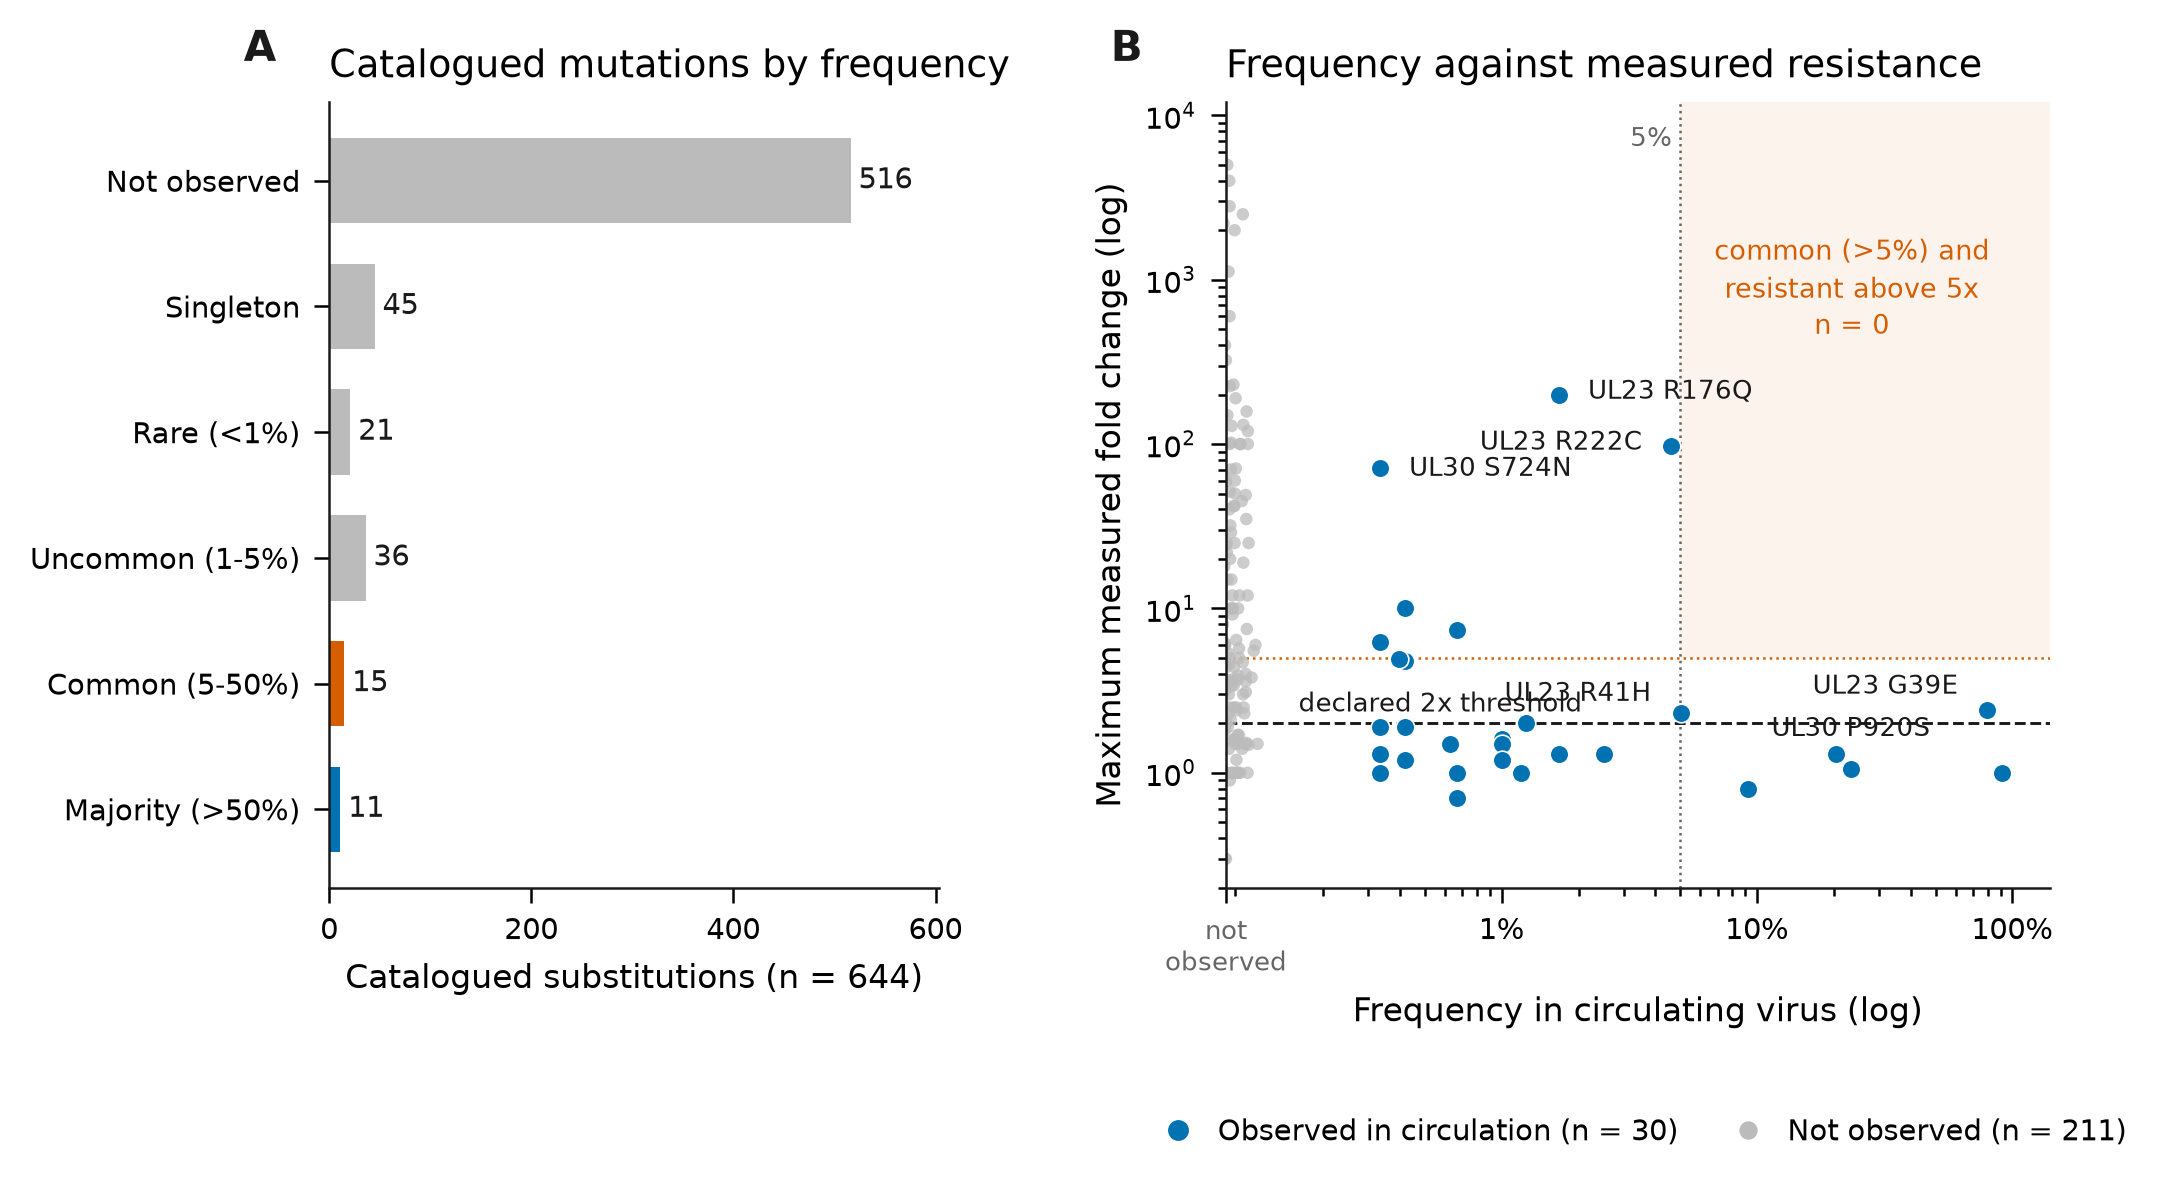
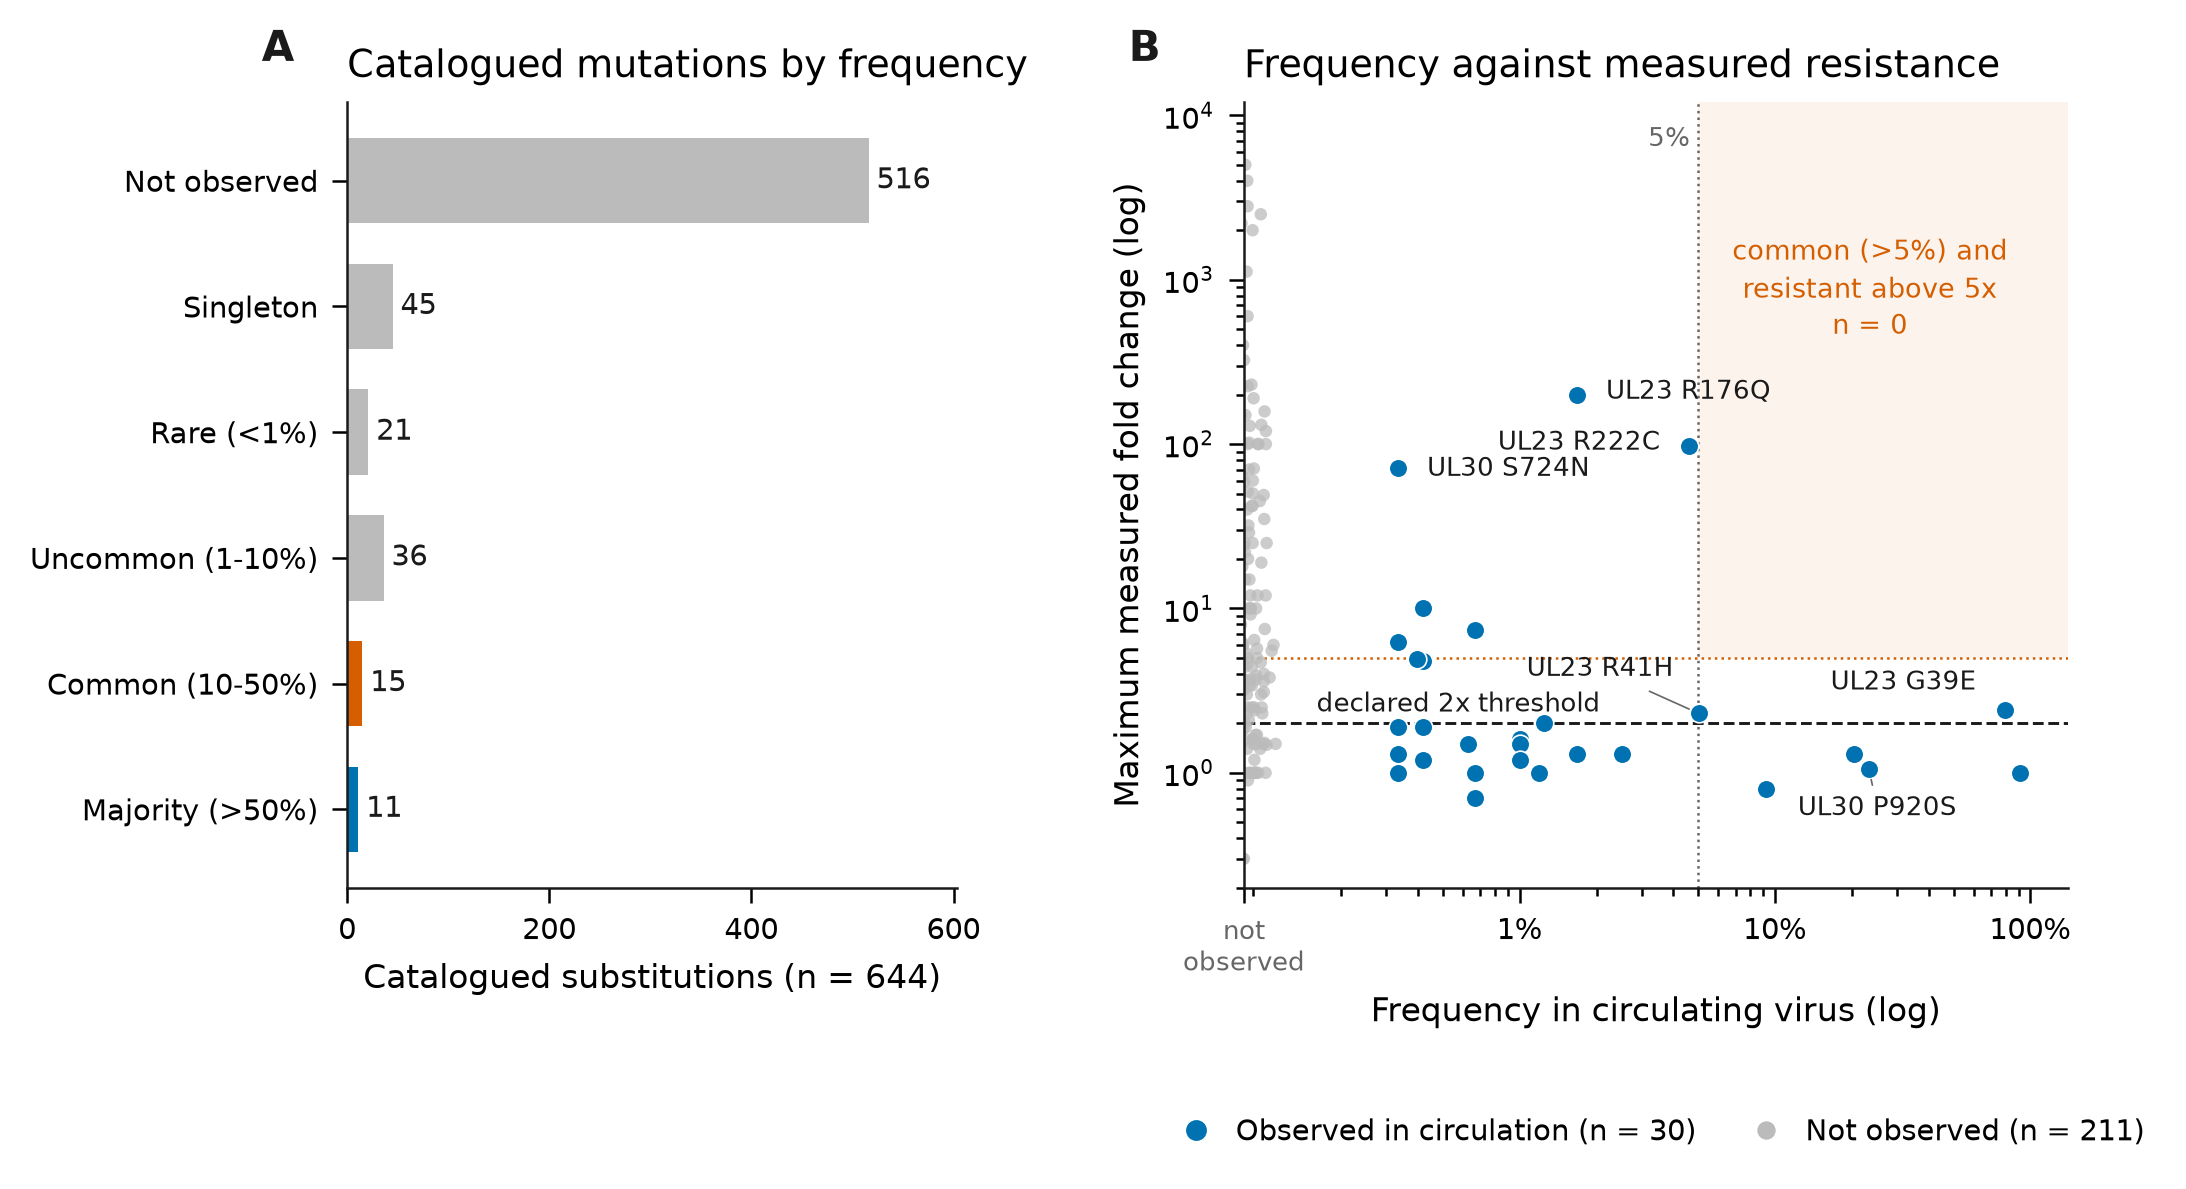
Correct the frequency band labels: the bands are cut at 1% and 10%, not 5%
The reclassification table assigns bands at FREQ_NOTABLE = 0.01 and
FREQ_COMMON = 0.10, but every document printing those bands labelled them
"Uncommon (1-5%)" and "Common (5-50%)". The counts were right -- 36 and 15 are
the 1-10% and 10-50% counts -- so every count check passed and nothing caught
the ranges. The 1-5% band actually holds 26 and 5-10% holds 10.

Wrong in four places: the manuscript's band table and its abstract ("a further
15 exceed 5%", true but understated -- they exceed 10%), PHASE2_REPORT.md, and
Figure 1A's own axis labels, which are generated from the same strings.

Three flag descriptions were wrong in the same direction. All three
circulating_resistance_allele entries sit in the uncommon band, not the common
one, so describing the flag as "Common and resistant" contradicted the table
printed above it; reclassify_as_polymorphism and unphenotyped_but_common were
described as "common" when the rule is above 1%.

Section 3.2 now states its own 5% cut explicitly, says it is half the band
boundary and therefore the wider claim, and names UL23 R222C -- 98-fold at
4.6%, just under the cut -- as the nearest approach to a counterexample,
pointing at 3.1 for why it fails on frequency too. The absence claim was
sound; it was resting on a cut-off the reader could not see.

p4_05_verify.py gains four checks: the two band boundaries read from the
thresholds the table was built with, and the two band counts recomputed from
[…]

diff --git a/scripts/p4_08_figures.py b/scripts/p4_08_figures.py
@@ -131,8 +131,8 @@ def figure1():
 
     # ---- panel A: the 644 by frequency band
     order = [("not_observed", "Not observed"), ("singleton", "Singleton"),
-             ("rare", "Rare (<1%)"), ("uncommon_polymorphism", "Uncommon (1-5%)"),
-             ("common_polymorphism", "Common (5-50%)"),
+             ("rare", "Rare (<1%)"), ("uncommon_polymorphism", "Uncommon (1-10%)"),
+             ("common_polymorphism", "Common (10-50%)"),
              ("majority_allele", "Majority (>50%)")]
     counts = {}
     for r in rc:
@@ -202,17 +202,27 @@ def figure1():
     # Label the variants the text discusses, and only those. R222C is labelled
     # leftwards on purpose: it sits at 4.6%, just outside the shaded region, and
     # a label running rightwards would read as though it were inside.
+    # R41H and P920S both sit within a few points of the 2x line, so they are
+    # pushed clear of it in opposite directions rather than labelled in place:
+    # R41H above, where the gap to the 5x line is widest, and P920S below.
     place = {"R176Q": ((7, -1), "left"), "R222C": ((-7, -1), "right"),
-             "S724N": ((7, -2), "left"), "R41H": ((-7, 3), "right"),
-             "G39E": ((-7, 4), "right"), "P920S": ((0, 8), "center")}
+             "S724N": ((7, -2), "left"), "R41H": ((-6, 9), "right"),
+             "G39E": ((-7, 5), "right"), "P920S": ((2, -11), "center")}
     for r in obs:
         spec = place.get(r["aa_change"])
         if spec:
             (dx, dy), ha = spec
+            # A label pushed clear of a crowded line is far enough from its
+            # point to be read as belonging to a neighbour, so those two get
+            # a hairline leader. The rest sit against their point and do not.
+            arrow = (dict(arrowstyle="-", lw=0.4, color=C["floor"],
+                          shrinkA=0.5, shrinkB=2.5)
+                     if abs(dy) >= 9 else None)
             axB.annotate("%s %s" % (r["gene"], r["aa_change"]),
                          (num(r["frequency"]), num(r["max_fold_change"])),
                          textcoords="offset points", xytext=(dx, dy),
-                         fontsize=6.2, color=C["ink"], ha=ha, zorder=5)
+                         fontsize=6.2, color=C["ink"], ha=ha, zorder=5,
+                         arrowprops=arrow)
 
     axB.set_xlabel("Frequency in circulating virus (log)")
     axB.set_ylabel("Maximum measured fold change (log)")

diff --git a/scripts/p4_05_verify.py b/scripts/p4_05_verify.py
@@ -67,6 +67,27 @@ def main():
     check("uncommon polymorphisms", bands.get("uncommon_polymorphism"), 36)
     check("singletons", bands.get("singleton"), 45)
     check("rare", bands.get("rare"), 21)
+
+    # The band COUNTS were right while the manuscript printed the wrong
+    # RANGES against them, which no count check could catch. The boundaries
+    # the counts were produced at are checked here, and the counts are
+    # recomputed from the frequencies against those boundaries so that the
+    # labels in the band table cannot drift away from the data again.
+    th = load(REP / "phase2" / "reclassification_summary.json")["thresholds"]
+    check("band boundary, notable", th["freq_notable"], 0.01, 1e-9)
+    check("band boundary, common", th["freq_common"], 0.10, 1e-9)
+    freqs = [float(r["frequency"]) for r in rc if r["observed"] == "1"]
+    check("recount, uncommon band (1-10%)",
+          sum(1 for f in freqs if 0.01 < f <= 0.10), 36)
+    check("recount, common band (10-50%)",
+          sum(1 for f in freqs if 0.10 < f <= 0.50), 15)
+    ms = (ROOT / "reports" / "phase4" / "MANUSCRIPT.md").read_text(
+        encoding="utf-8")
+    for bad in ("Uncommon (1–5%)", "Common (5–50%)",
+                "a further 15 exceed 5%"):
+        if bad in ms:
+            failures.append(f"manuscript prints a 5% band boundary, but the "
+                            f"bands are cut at 1% and 10%: {bad!r}")
     check("reference_artifact", flags.get("reference_artifact"), 10)
     check("reclassify_as_polymorphism", flags.get("reclassify_as_polymorphism"), 7)
     check("unphenotyped_but_common", flags.get("unphenotyped_but_common"), 41)

diff --git a/reports/phase4/MANUSCRIPT.md b/reports/phase4/MANUSCRIPT.md
@@ -26,7 +26,7 @@ kinase (UL23), DNA polymerase (UL30), helicase (UL5) and primase (UL52) from
 
 Of 644 catalogued substitutions, **128 occur in circulating virus and 516 do
 not**. Eleven are the *majority* allele, meaning the reference sequence carries
-the minority residue; a further 15 exceed 5%. Seven are recommended for
+the minority residue; a further 15 exceed 10%. Seven are recommended for
 reclassification as polymorphisms. Forty-one are common in circulation but have
 never been phenotyped, and are the clearest target for future assay work.
 Three initially appeared to be circulating resistance alleles; none survives
@@ -192,8 +192,8 @@ Of 644 catalogued substitutions, 128 occur in circulating virus (Figure 1A).
 | Not observed | 516 | No population evidence either way |
 | Singleton | 45 | One carrier |
 | Rare (<1%) | 21 | |
-| Uncommon (1–5%) | 36 | |
-| **Common (5–50%)** | **15** | |
+| Uncommon (1–10%) | 36 | |
+| **Common (10–50%)** | **15** | |
 | **Majority (>50%)** | **11** | The reference carries the minority residue |
 
 Interpretive flags:
@@ -201,17 +201,17 @@ Interpretive flags:
 | Flag | n | What it means |
 | --- | --- | --- |
 | `reference_artifact` | 10 | Majority allele, no measured resistance |
-| `reclassify_as_polymorphism` | 7 | Catalogued as resistance-associated, common, fold change below 2× |
-| `unphenotyped_but_common` | 41 | Common in circulation, never phenotyped |
+| `reclassify_as_polymorphism` | 7 | Catalogued as resistance-associated, above 1%, fold change at or below 2× |
+| `unphenotyped_but_common` | 41 | Above 1% in circulation, never phenotyped |
 | `consistent_rare` | 60 | Rare, as a resistance determinant should be |
 | `consistent_with_resistance` | 6 | Rare and phenotypically resistant |
-| `circulating_resistance_allele` | 3 | Common **and** resistant — all three fail on inspection |
+| `circulating_resistance_allele` | 3 | Above 1%, fold change above 2× — all three fail on inspection |
 | `majority_allele_with_measured_resistance` | 1 | |
 
 **The seven `reclassify_as_polymorphism` entries are the paper's concrete
 deliverable**, and the 41 `unphenotyped_but_common` entries are its clearest
-call to action: these are common enough that a laboratory encountering them will
-have to interpret them, and no phenotype exists.
+call to action: each is carried by more than 1% of circulating virus, so a
+laboratory will meet them and has no phenotype to interpret them with.
 
 ### 3.1 The three apparent circulating resistance alleles
 
@@ -246,13 +246,20 @@ observed in circulating virus and 211 are not, and the two groups differ in
 measured resistance: median fold change 1.5× for the observed and 5.0× for the
 unobserved.
 
-The informative part of the plot is empty. Above 5% frequency the strongest
-phenotype in the catalogue is **2.4×**: two substitutions clear the declared
-2-fold threshold at that frequency, both marginally (UL23 R41H at 2.3×, UL30
-G39E at 2.4×), and **none reaches 5×**. There is no common substitution in
-circulating HSV with a strong measured resistance phenotype. That absence is the
-reassuring reading of Aim 1, and it is only visible once the denominator
-exists.
+The informative part of the plot is empty. Taking 5% as the cut — half the
+band boundary used in the table above, so that the claim is made over a wider
+set of substitutions rather than a narrower one — the strongest phenotype
+above it is **2.4×**. Two substitutions clear the declared 2-fold threshold at
+that frequency, both marginally (UL23 R41H at 2.3×, UL30 G39E at 2.4×), and
+**none reaches 5×**.
+
+The nearest approach to a counterexample is UL23 R222C, at 98-fold and 4.6%,
+just below the cut — and §3.1 is the reason it does not qualify on frequency
+either: 8 of its 11 carriers come from one submission, and dropping that
+submission takes it to 1.4%. Subject to that, there is no substitution in
+circulating HSV that is both reasonably common and strongly resistant by
+measurement. The absence is the reassuring reading of Aim 1, and it is only
+visible once the denominator exists.
 
 ## 4. Aims 2 and 3
 
@@ -274,11 +281,13 @@ in culture while polymerase is not — and it supplies a population-genetic
 reason why TK accumulates substitutions that then appear in resistance
 catalogues. The contrast is also insensitive to the two choices of sequence set
 that move individual allele frequencies most. Collapsing serial isolates to one
-per patient, which moves R222C's frequency by 40%, moves this contrast by 0.004;
-restricting the set to the 451 isolates whose GenBank records carry an explicit
-gene qualifier, a quarter less sequence, moves it by 0.0025. Both lie well
-inside the interval. Gene-wide rates are insensitive to sampling in a way
-single-variant frequencies are not.
+per patient, which moves R222C's frequency by 40%, moves this contrast by
+0.004. Restricting extraction to the 451 isolates whose GenBank records carry
+an explicit `gene` qualifier, discarding a quarter of the sequence and the
+HSV-2 records disproportionately, moves it by 0.0025. Both lie well inside the
+interval of ±0.03. Gene-wide rates are insensitive to sampling in a way
+single-variant frequencies are not, which is the general reason to prefer them
+for a selection contrast.
 
 HSV-2 is withheld: UL23 has only 32 synonymous sites and a pN/pS point estimate
 of 2.46 with an interval spanning 1.74–3.67, which is an artefact of the

diff --git a/reports/phase2/PHASE2_REPORT.md b/reports/phase2/PHASE2_REPORT.md
@@ -31,8 +31,8 @@ Threshold: at least one labelled variant above 1% in naive isolates.
 | Frequency band | n |
 | --- | --- |
 | Majority allele (>50%) | 11 |
-| Common polymorphism (5–50%) | 15 |
-| Uncommon polymorphism (1–5%) | 36 |
+| Common polymorphism (10–50%) | 15 |
+| Uncommon polymorphism (1–10%) | 36 |
 | Rare (<1%) | 21 |
 | Singleton (one isolate) | 45 |
 | Not observed | 516 |
